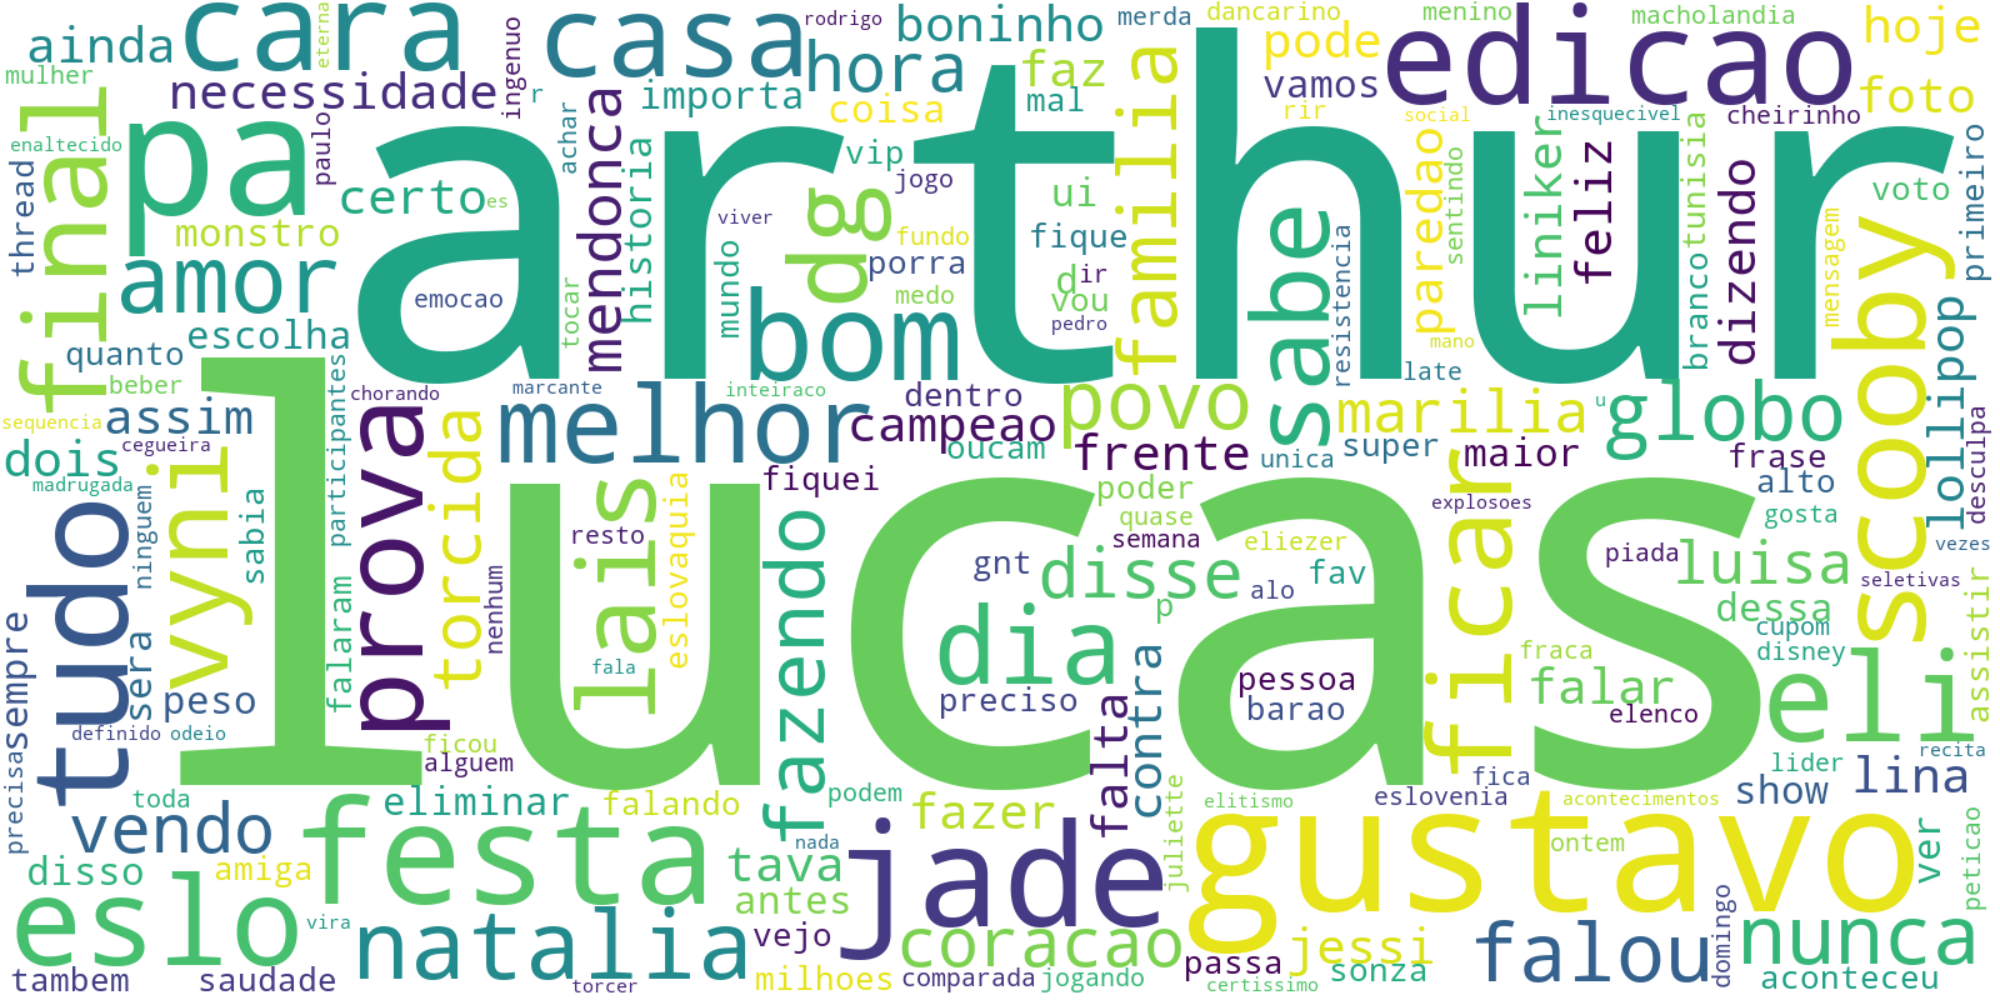
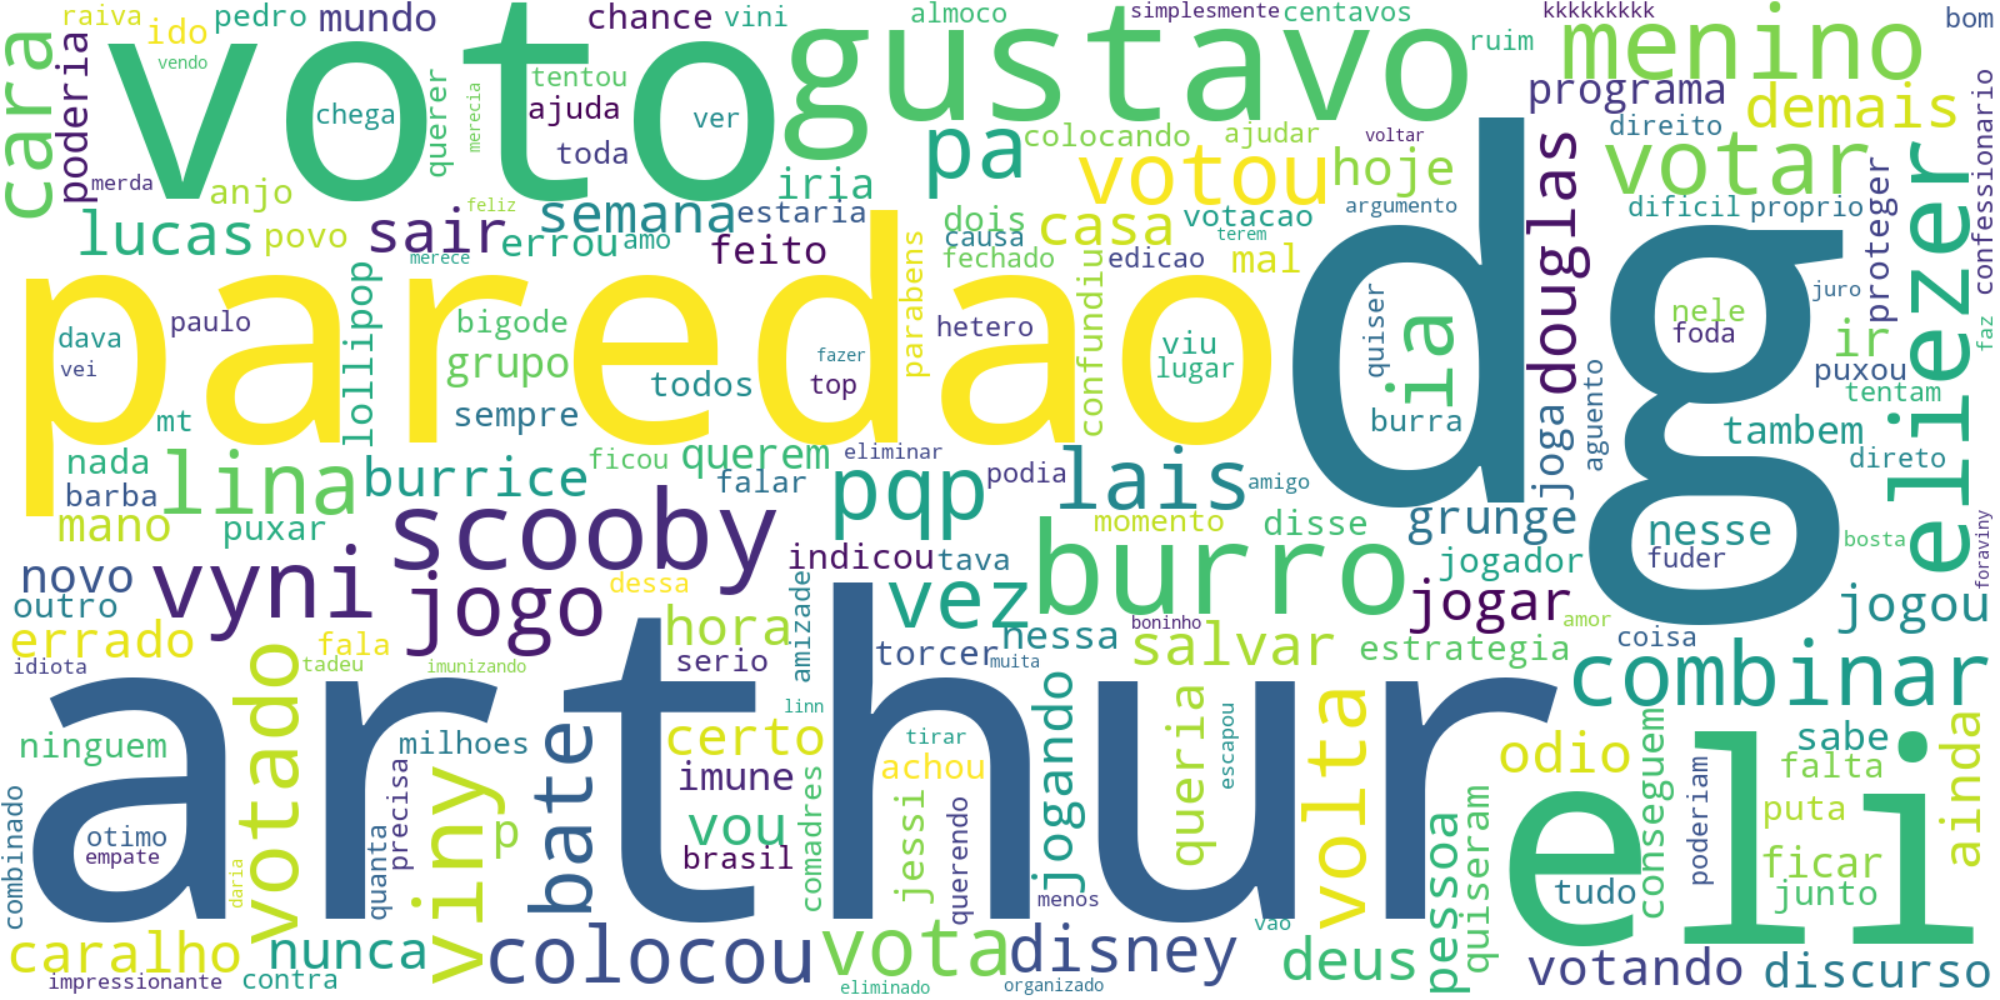
paredao

diff --git a/app.py b/app.py
@@ -12,6 +12,7 @@ import pandas as pd
 import io
 import pytz
 import string
+import numpy as np
 
 consumer_key = 'AxrLnGCzWymdqtyaGyuPps5oa'  # API key
 consumer_secret = 'dDZP1s8kCO5fg2yM3sVv60cFb0Zhmj0DT2cgh5ZneJDUEerhQM' # API key secret
@@ -28,7 +29,7 @@ newStopWords = ['né','Se','q','vc','ter','ne','da','to','tô','https','BBB22','
                 '#bbb22','#redebbb','bbb','ai','desse','quis','voce','vai','ta','#bbb','ela','sobre','cada','ah','mas','mais',
                 'pro','dela','vem','ja','outra','porque','por que','por quê','porquê','bem','rt','todo','tao','acho','sao','voces','pq',
                 'co','t','n','desde','so','mim','la','quer','fez','agora','aqui','vcs','gente','deu', 'ate', 'oq', 'ser', 'kkk','kk',
-                'kkkk','kkkkk','kkkkkk','fazendo','estao','hoje','fazer','nessa','ainda','diz','pois']
+                'kkkk','kkkkk','kkkkkk','kkkkkkkkk','kkkkk','kkkkkkk','kkkkkkkk','fazendo','estao','hoje','fazer','nessa','ainda','diz','pois','falando','disse','dessa','p','x']
 
 stopwords.extend(newStopWords)
 
@@ -42,7 +43,7 @@ def handler(event, context):
 
 def remove_hashtag_and_mention(text):
     entity_prefixes = ['@','#']
-    for separator in  string.punctuation:
+    for separator in string.punctuation:
         if separator not in entity_prefixes :
             text = text.replace(separator,' ')
     words = []
@@ -102,6 +103,28 @@ def create_wc():
     #remove punctuation
     table = str.maketrans('', '', string.punctuation)
     tw_list['text'] = tw_list['text'].apply(lambda x: ' '.join([x.translate(table) for x in x.split()]))
+
+    # check paredao hashtags
+    tw_list['paredao'] = np.nan
+    tw_list['paredao'] = tw_list['paredao'].fillna(' ')
+
+    def check_paredao(row):
+        paredao = ['#forajessi', '#foraeli', '#foraeliezer', '#foraeslo', '#foraeslovenia', '#foravyni', '#foraviny',
+                   '#forapa', '#forapauloandre', '#foradg', '#foradouglas', '#foradouglassilva', '#foraarthur',
+                   '#forarrthur',
+                   '#foralina', '#foralinn', '#foralinna', '#foralucas', '#forabarao', '#foranatalia', '#foragustavo',
+                   '#foralais',
+                   '#forascooby']
+
+        for word in paredao:
+            if word in row['original'].lower():
+                return ' ' + word
+            else:
+                continue
+
+    tw_list['paredao'] = tw_list.apply(lambda x: check_paredao(x), axis=1)
+    tw_list['paredao'].fillna(' ', inplace=True)
+    tw_list['text'] = tw_list['text'] + tw_list['paredao'].astype(str)
 
     # create a wordcloud
     # logger.info("Generating WC")

diff --git a/my_first_bot.py b/my_first_bot.py
@@ -1,3 +1,4 @@
+import numpy as np
 import tweepy
 import pandas as pd
 import nltk
@@ -24,7 +25,8 @@ newStopWords = ['né','Se','q','vc','ter','ne','da','to','tô','https','BBB22','
                 'dar','bbb22','te','eu','#BBB22','HTTPS','pra','tbm','tb','tt','ja','nao',
                 '#bbb22','#redebbb','bbb','ai','desse','quis','voce','vai','ta','#bbb','ela','sobre','cada','ah','mas','mais',
                 'pro','dela','vem','ja','outra','porque','por que','por quê','porquê','bem','rt','todo','tao','acho','sao','voces','pq',
-                'co','t','n','desde','so','mim','la','quer','fez','agora','aqui','vcs','gente','deu', 'ate', 'oq', 'ser', 'kkk','kk','kkkk','kkkkk','kkkkkk']
+                'co','t','n','desde','so','mim','la','quer','fez','agora','aqui','vcs','gente','deu', 'ate', 'oq', 'ser', 'kkk','kk',
+                'kkkk','kkkkk','kkkkkk','kkkkkkkkk','kkkkk','kkkkkkk','kkkkkkkk']
 
 stopwords.extend(newStopWords)
 tweet_list = []
@@ -70,6 +72,27 @@ def create_wc(keyword,n_tweets):
     table = str.maketrans('', '', string.punctuation)
     tw_list['text'] = tw_list['text'].apply(lambda x: ' '.join([x.translate(table) for x in x.split()]))
 
+    #check paredao hashtags
+    tw_list['paredao'] = np.nan
+    tw_list['paredao'] = tw_list['paredao'].fillna(' ')
+    def check_paredao(row):
+        paredao = ['#forajessi', '#foraeli', '#foraeliezer', '#foraeslo', '#foraeslovenia', '#foravyni', '#foraviny',
+                   '#forapa', '#forapauloandre', '#foradg', '#foradouglas', '#foradouglassilva', '#foraarthur', '#forarrthur',
+                   '#foralina', '#foralinn', '#foralinna', '#foralucas', '#forabarao', '#foranatalia', '#foragustavo', '#foralais',
+                   '#forascooby']
+
+        for word in paredao:
+            if word in row['original'].lower():
+                return ' ' + word
+            else:
+                continue
+
+    tw_list['paredao'] = tw_list.apply(lambda x: check_paredao(x), axis=1)
+    tw_list['paredao'].fillna(' ',inplace=True)
+    tw_list['text'] = tw_list['text'] + tw_list['paredao'].astype(str)
+
+
+
     # create excel writer object
     writer = pd.ExcelWriter('output.xlsx')
     tw_list.to_excel(writer, engine='xlsxwriter')
@@ -90,4 +113,4 @@ def create_wc(keyword,n_tweets):
     plt.tight_layout(pad=0)
     plt.savefig('wordcloud.png')
 
-create_wc('#BBB22 OR #bbb22',200)
+create_wc('#BBB22 OR #bbb22',500)

diff --git a/sentiment.py b/sentiment.py
@@ -20,7 +20,6 @@ logger = logging.getLogger()
 
 api = create_api()
 
-
 stopwords = nltk.corpus.stopwords.words('portuguese')
 newStopWords = ['né', 'Se', 'q', 'vc', 'ter', 'ne', 'da', 'to', 'tô', 'https', 'BBB22', 'tá',
                 'dar', 'bbb22', 'te', 'eu', '#BBB22', 'HTTPS', 'pra', 'tbm', 'tb', 'tt', 'ja', 'nao',

diff --git a/twitter_data_participantes.py b/twitter_data_participantes.py
@@ -78,7 +78,7 @@ data['score'] = (1/(1.5*data['rt_follower'] + data['likes_follower']))**data['se
 
 # create excel writer object
 dt_string = today.strftime("%Y_%m_%d")
-file_name = 'social_data_'+dt_string+'.xlsx'
+file_name = 'social_data_'+dt_string
 data.to_csv(file_name, sep=',')
 
 

diff --git a/plot_social_data.py b/plot_social_data.py
@@ -1,0 +1,9 @@
+import pandas as pd
+import matplotlib.pyplot as plt
+
+data = pd.read_csv('social_data_2022_03_13.xlsx.csv')
+print(data.loc[:,['alias','sentiment','score']])
+# data.set_index('Unnamed: 0', inplace=True)
+# data.T.plot()
+# plt.tight_layout()
+# plt.show()
